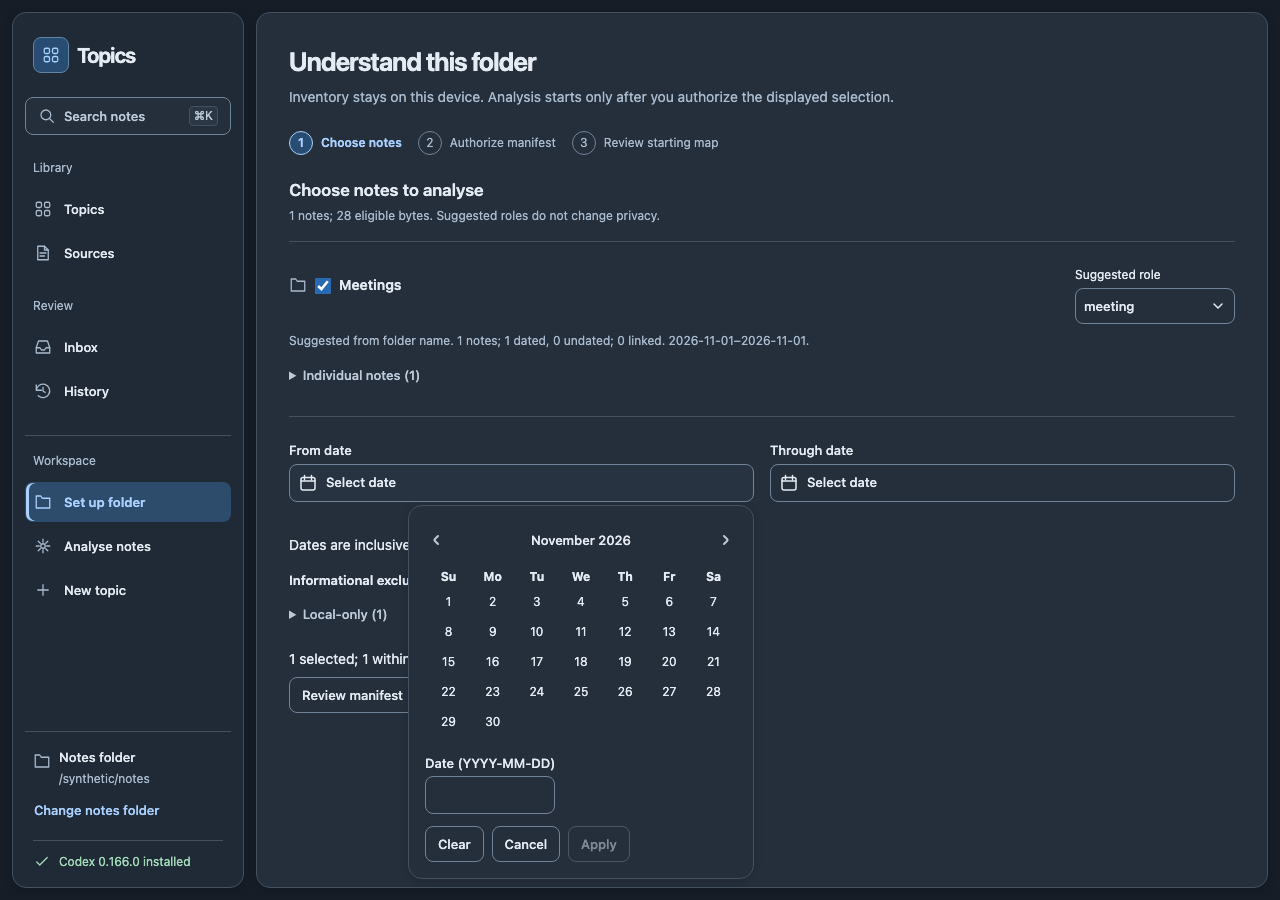
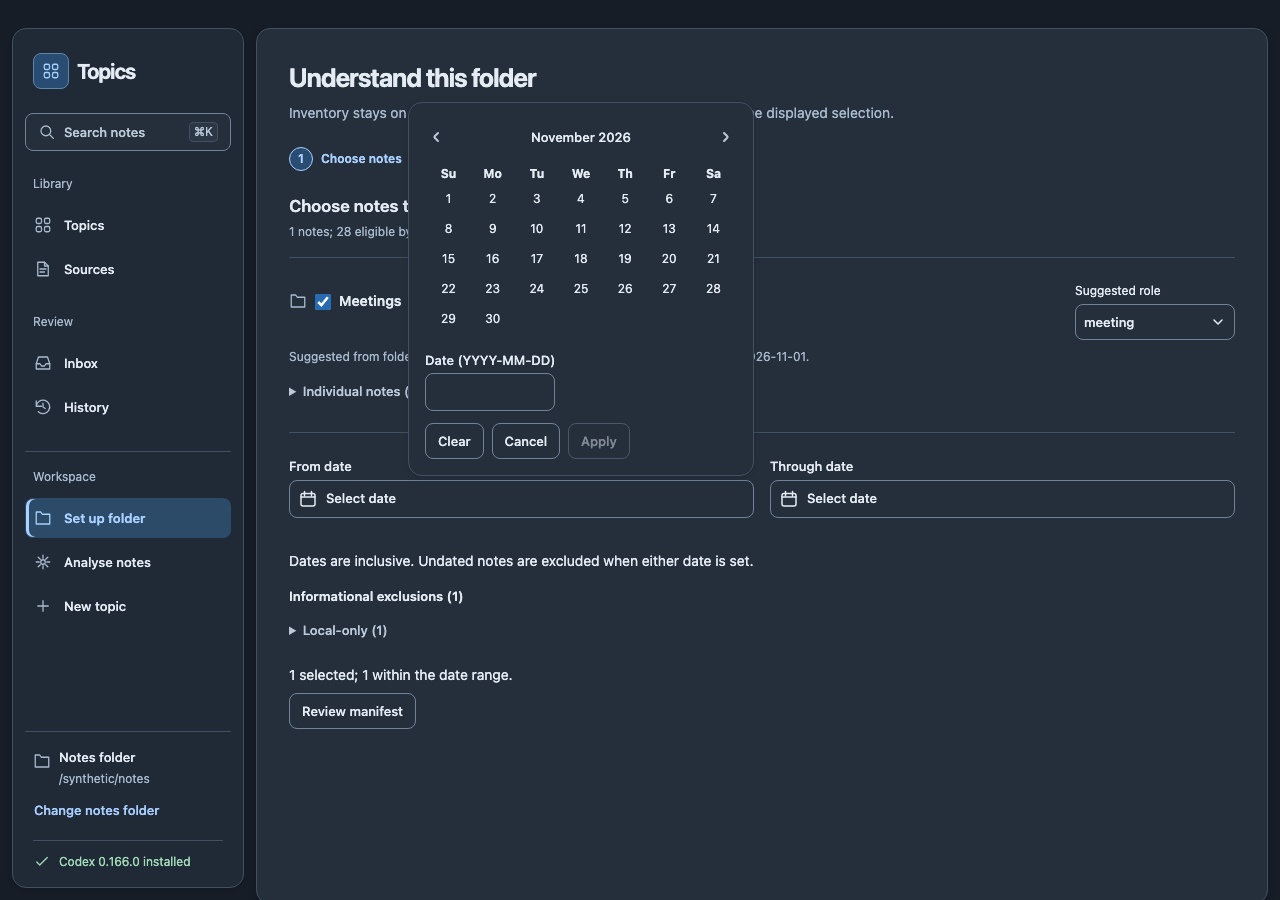
Record integrated prototype checks and pending CI focus repair

diff --git a/docs/workspace-design-report.md b/docs/workspace-design-report.md
@@ -1,0 +1,25 @@
+# Workspace design prototype
+
+The signed development candidate is at `target/prototype/workspace-design-17cdb27/Topics.app`. Quit the existing Topics app before opening this separate bundle. The existing running prototype and its files were left unchanged.
+
+## Changes
+
+- Integrated macOS overlay header with native traffic lights, a drag region and safe keyboard skip-link placement.
+- Actual MIT BoardUI Select and DatePicker sources, adapted to Topics tokens with pinned React Aria dependencies. The calendar supports canonical date entry, Apply, Cancel, Clear and Escape focus return.
+- Date-aware oversized-note blocking, explicit exclusion from this run, grouped informational exclusions and actionable empty/reversed-range explanations. A note outside the committed date range no longer blocks the manifest.
+
+Eligible notes over the existing limit still require exclusion. Chunked large-note analysis is a separate proposed plan awaiting approval. Disconnect/reconnect and fresh-session features also remain proposed; they were not included in the window-design authorization.
+
+## Verification
+
+Implementation source `17cdb27fe16f9fa3d97c6f97aae06d59bb588d55` passed the full local `scripts/check.sh`: 346 Rust tests, 55 BDD scenarios / 330 steps, 133 browser tests, native search/startup/workspace/setup, the oversized/date/privacy/source-hash/focus regression, and scripted rehearsal/restart checks. All notes were synthetic with isolated application data; no real provider was invoked. Integrated diagnostics are retained at `/tmp/topics-design-integrated-evidence` and the log at `/tmp/topics-design-integration-check.log`.
+
+The production release bundle was built with `VITE_NATIVE_TEST=0`, without the native-test feature, and passed strict ad-hoc signature verification before and after copying. Its source identity and limits are recorded beside the app. The build reported the existing large JavaScript chunk warning; the scripted rehearsal also reported a local `rust-objcopy` missing-LLVM stripping warning, but completed successfully. No global toolchain changes were made.
+
+Independent Codex reviews accepted the window changes and setup tip `e9c7e9f`; the latter independently replayed the native regression and focused browser checks. Pointer evidence used PID-targeted synthetic input, not physical hardware. No screen-reader acceptance is claimed. See [window chrome](design/window-chrome.md), [setup controls](design/setup-controls.md), and the [team record](../features/workspace-controls/TEAM.md).
+
+## Remaining checks
+
+[Hosted Core passed](https://github.com/MacsDickinson/topics/actions/runs/42722393635) source `17cdb27`. [Hosted Desktop failed](https://github.com/MacsDickinson/topics/actions/runs/42722393676) its light / 1180px first-Tab skip-link assertion, with 132 browser cases passing. A separate worker is investigating the initial keyboard-focus cause; the local result does not supersede that failure.
+
+The user's required Claude review remains blocked by expired CLI OAuth authentication. The additional Codex reviews do not replace that requirement. This is a development candidate with these checks open.

diff --git a/features/workspace-controls/TEAM.md b/features/workspace-controls/TEAM.md
@@ -29,3 +29,9 @@ Independent read-only review ran as `task_c3f6079a8fb9`, dispatch `ctx_98671f872
 The setup commits are integrated through `4be7f66`; the manager is running the full combined check before packaging. The standard desktop check now includes the synthetic oversized/date/focus regression after rebuilding the native binary, so the integrated result does not rely on the reviewer's reused target binary. Shared design guidance documents the actual BoardUI components and warning groups. This additional Codex review does not replace the user's required Claude review, blocked by expired CLI OAuth authentication.
 
 Large-note chunking discovery and proposed BDD scenarios are integrated as documentation only (`045f1b7`, `15cbcdc`). Implementation awaits the user's explicit approval; current eligible oversized notes still require exclusion.
+
+## Combined verification and packaging
+
+Source `17cdb27` passed the full local check: 346 Rust tests, 55 BDD scenarios / 330 steps, 133 browser cases and all native suites, including the new oversized/date/focus regression and scripted rehearsal/restart. A production release bundle with native-test disabled passed strict signature verification and is copied to `target/prototype/workspace-design-17cdb27/Topics.app`. The user's previous prototype was still running and was preserved. See [report](../../docs/workspace-design-report.md).
+
+Personal remote branch: `workspace-design-prototype-2026-11-09`. Read-only CI monitor `task_9cb3f1eb78cc` / `ctx_e167d1063783` (Terra medium, Jev confidence 0.94) confirmed Core run `42722393635` passed, but Desktop `42722393676` failed one first-Tab skip-link focus case (132 passed). A separate source-isolated worker is investigating: `task_5a623d14e8b8`, dispatch `ctx_a703b032b1fa`, worktree `topics-window-focus-ci`, Terra medium low-confidence fallback 0.16. It may repair a narrowly justified test/readiness issue, must retain genuine keyboard assertions and cannot change product behavior without root-cause evidence and coordinator approval. Manager owns packaging/native cache; this worker has browser-only access.
